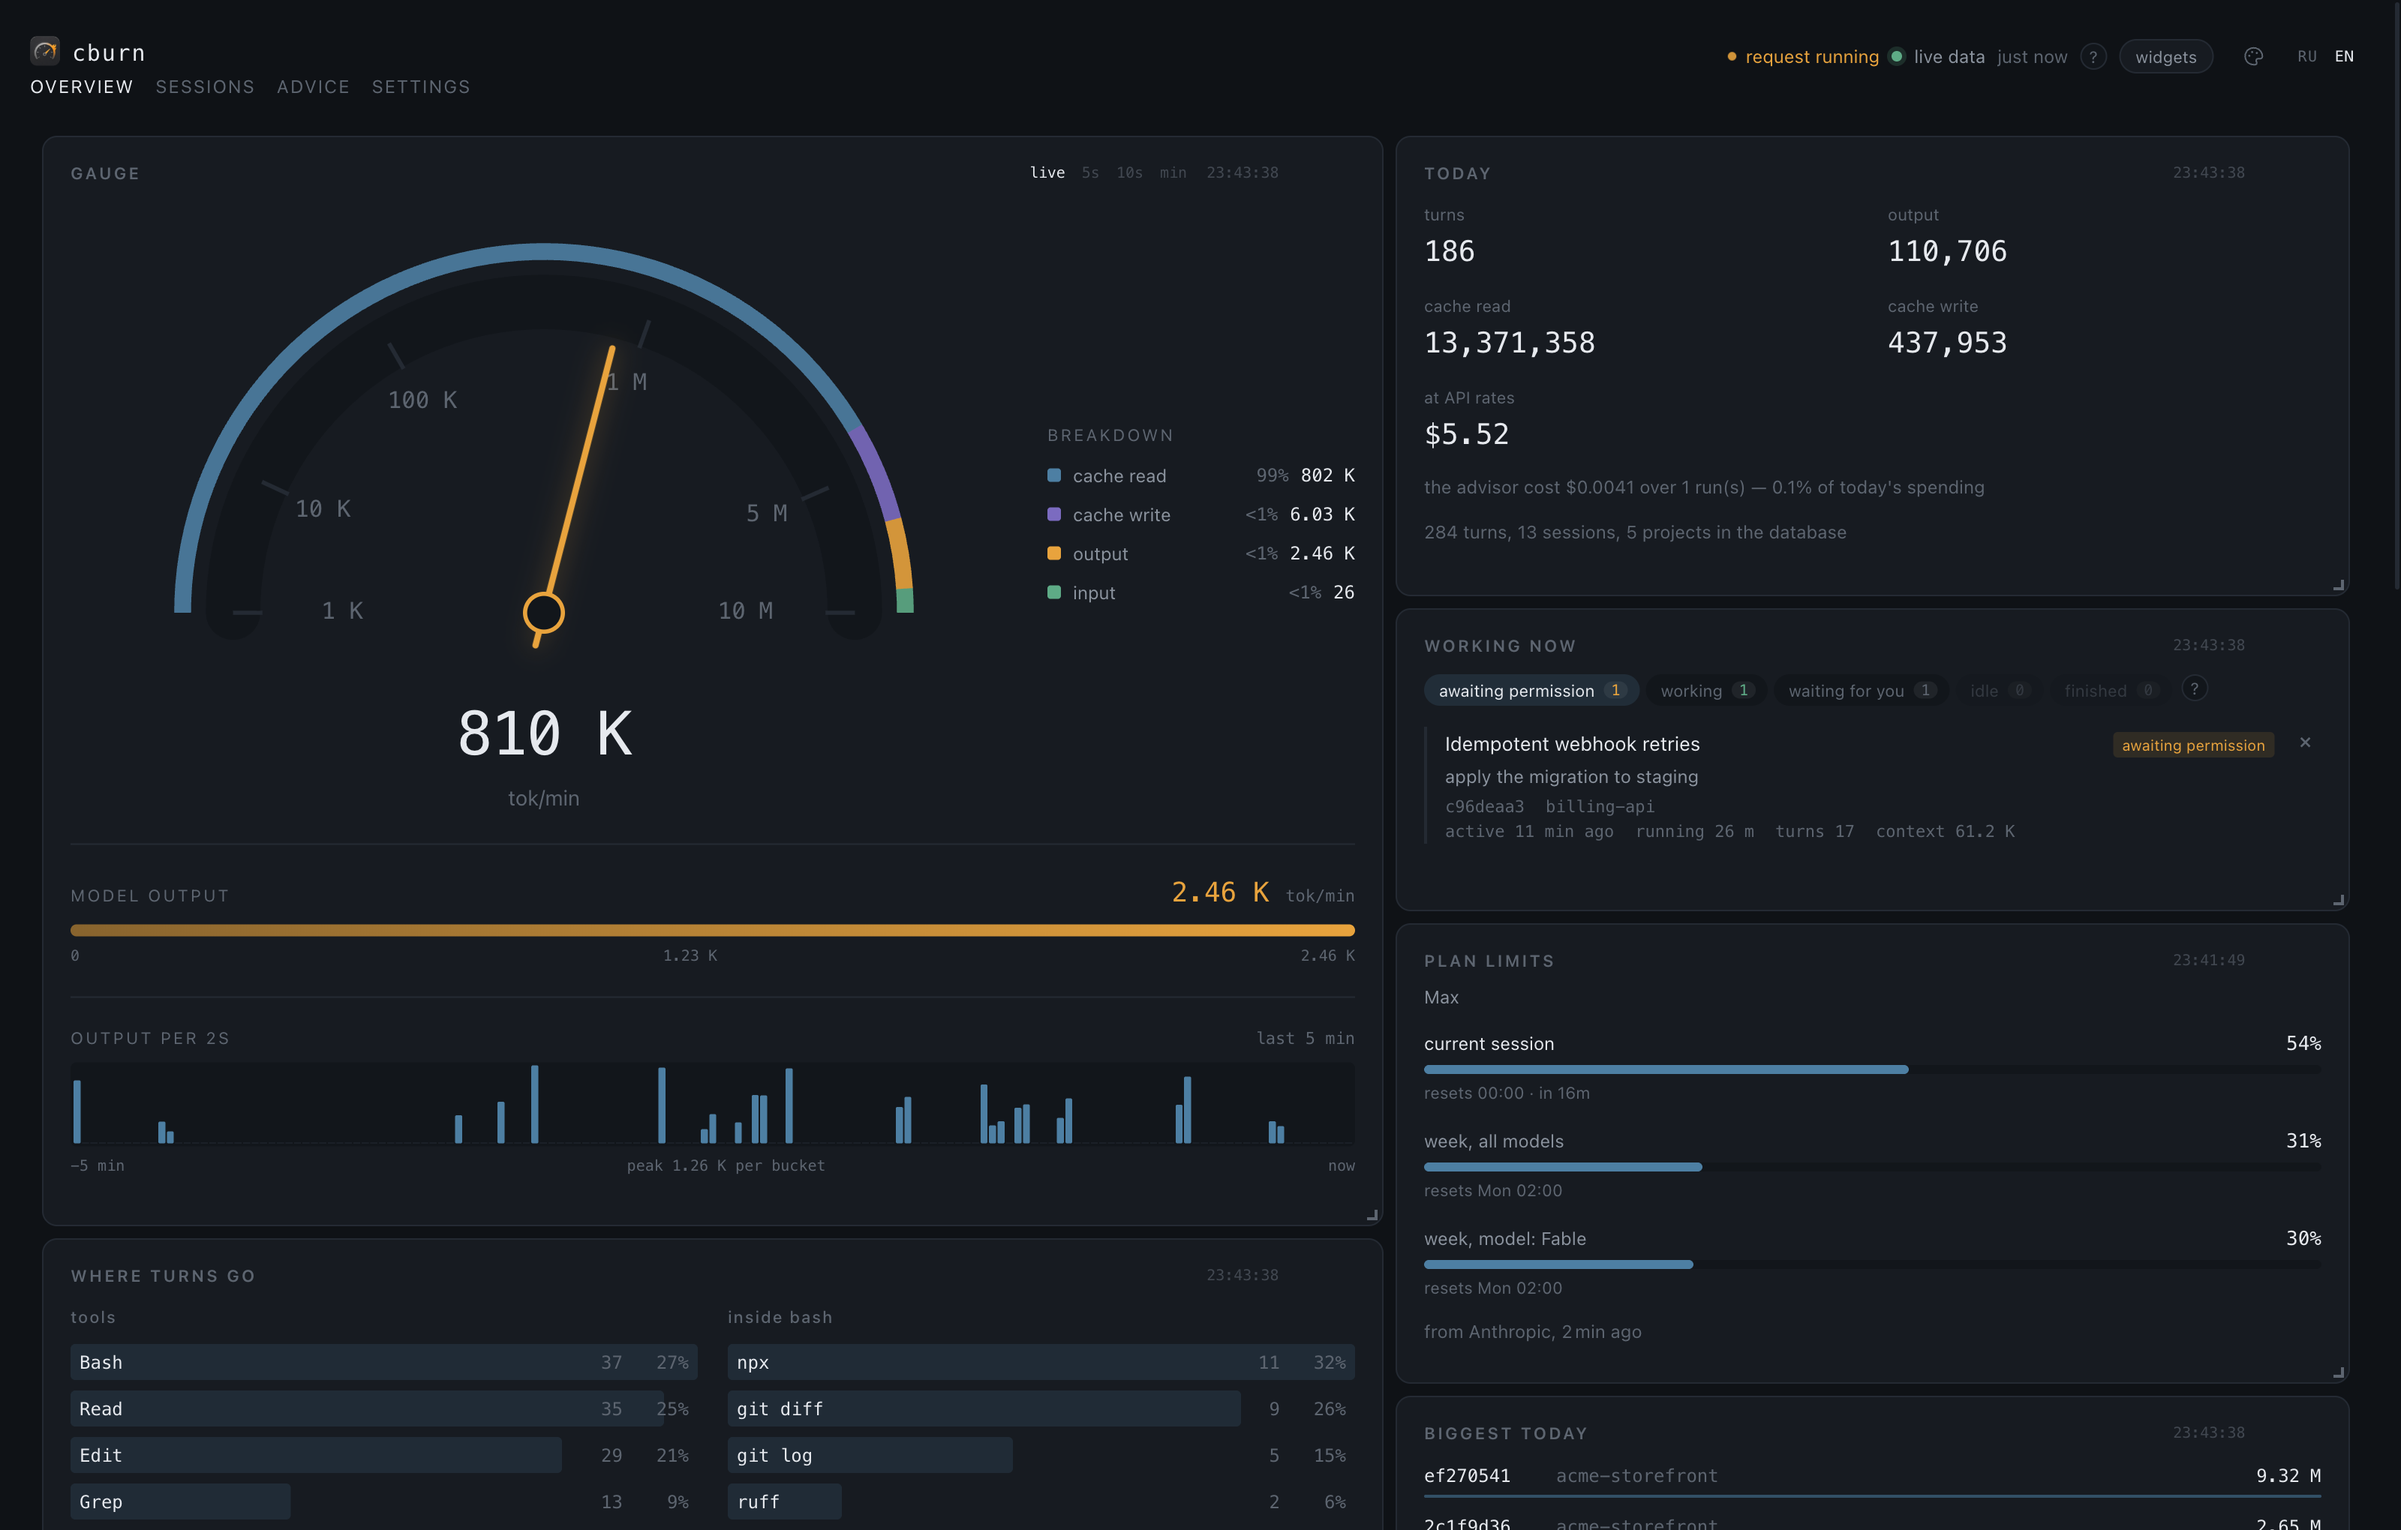
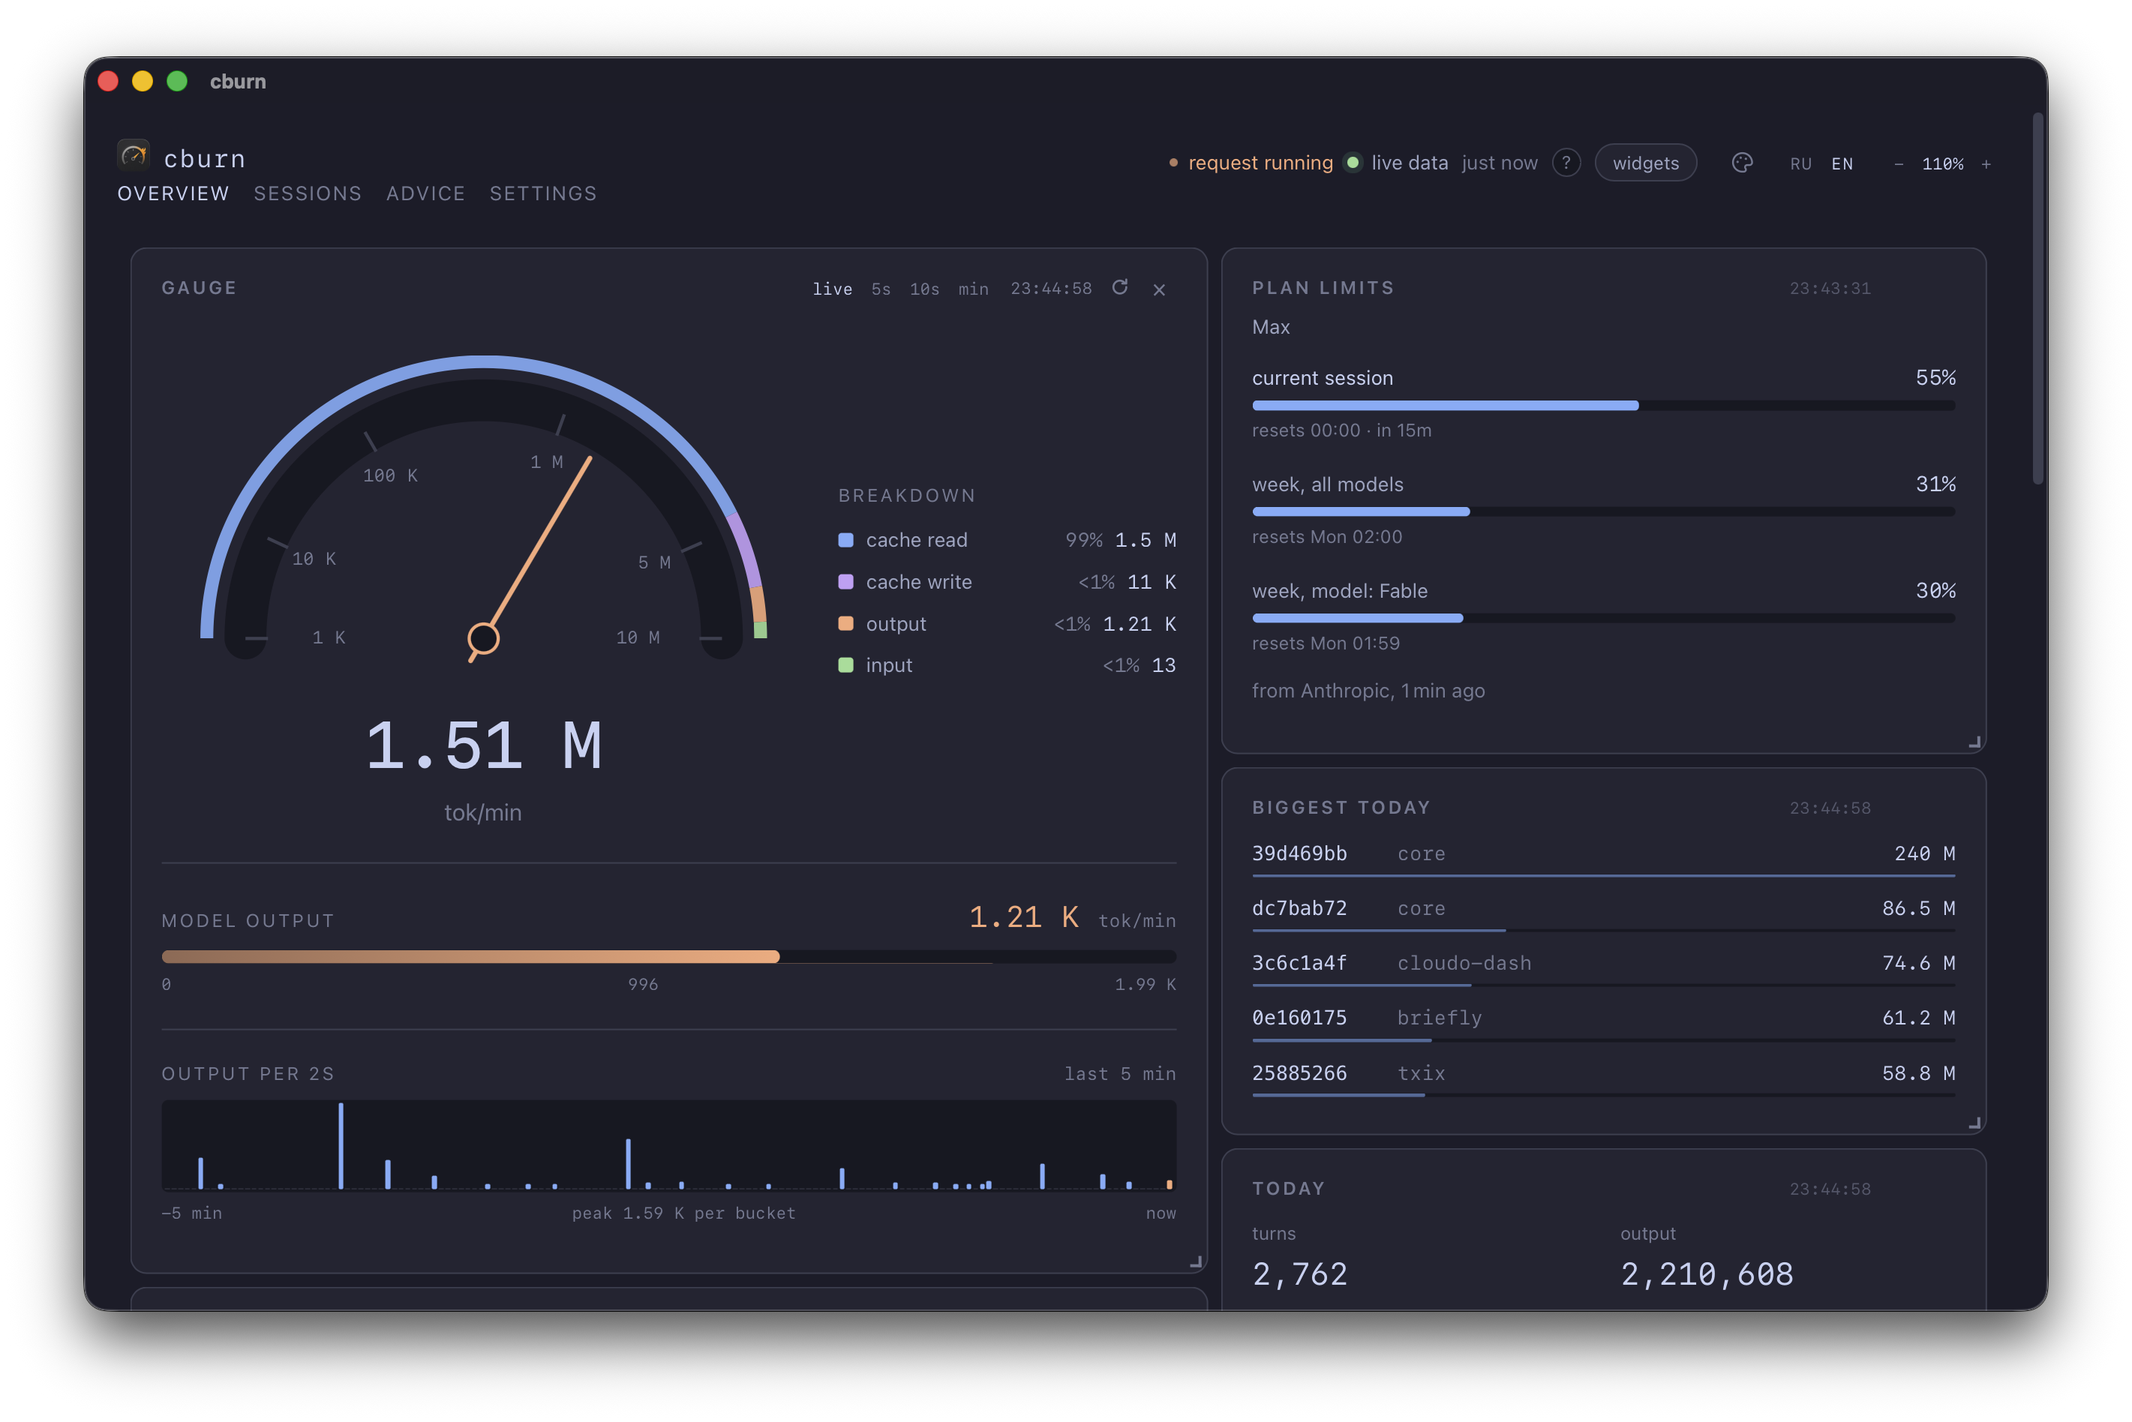
docs: put the application window into the README hero
The dashboard pair used to be a headless render of the page; now it is the
application itself - the macOS window with its shadow and rounded corners, in both
themes, the light one with the theme picker open over the eighteen palettes.

Both are re-encoded losslessly, pixel for pixel: 816 KB became 492 and 940 KB
became 580. They still weigh more than the headless renders did - a real window
carries a soft shadow over transparency, and that costs.

The caption under the session and advice screens now speaks for those two alone:
they come from the demo dataset, the window shots do not.

diff --git a/README.md b/README.md
@@ -37,8 +37,8 @@ Everything happens locally: the transcripts are read straight from
   <img src="docs/advice.png" alt="the advice screen" width="49%" />
 </p>
 <p align="center">
-  <sub>All screenshots show a synthetic demo dataset - <code>make demo</code> generates it
-  and serves a second dashboard without touching the real database.</sub>
+  <sub>The session and advice screens show a synthetic demo dataset - <code>make demo</code>
+  generates it and serves a second dashboard without touching the real database.</sub>
 </p>
 
 ## Quick start
